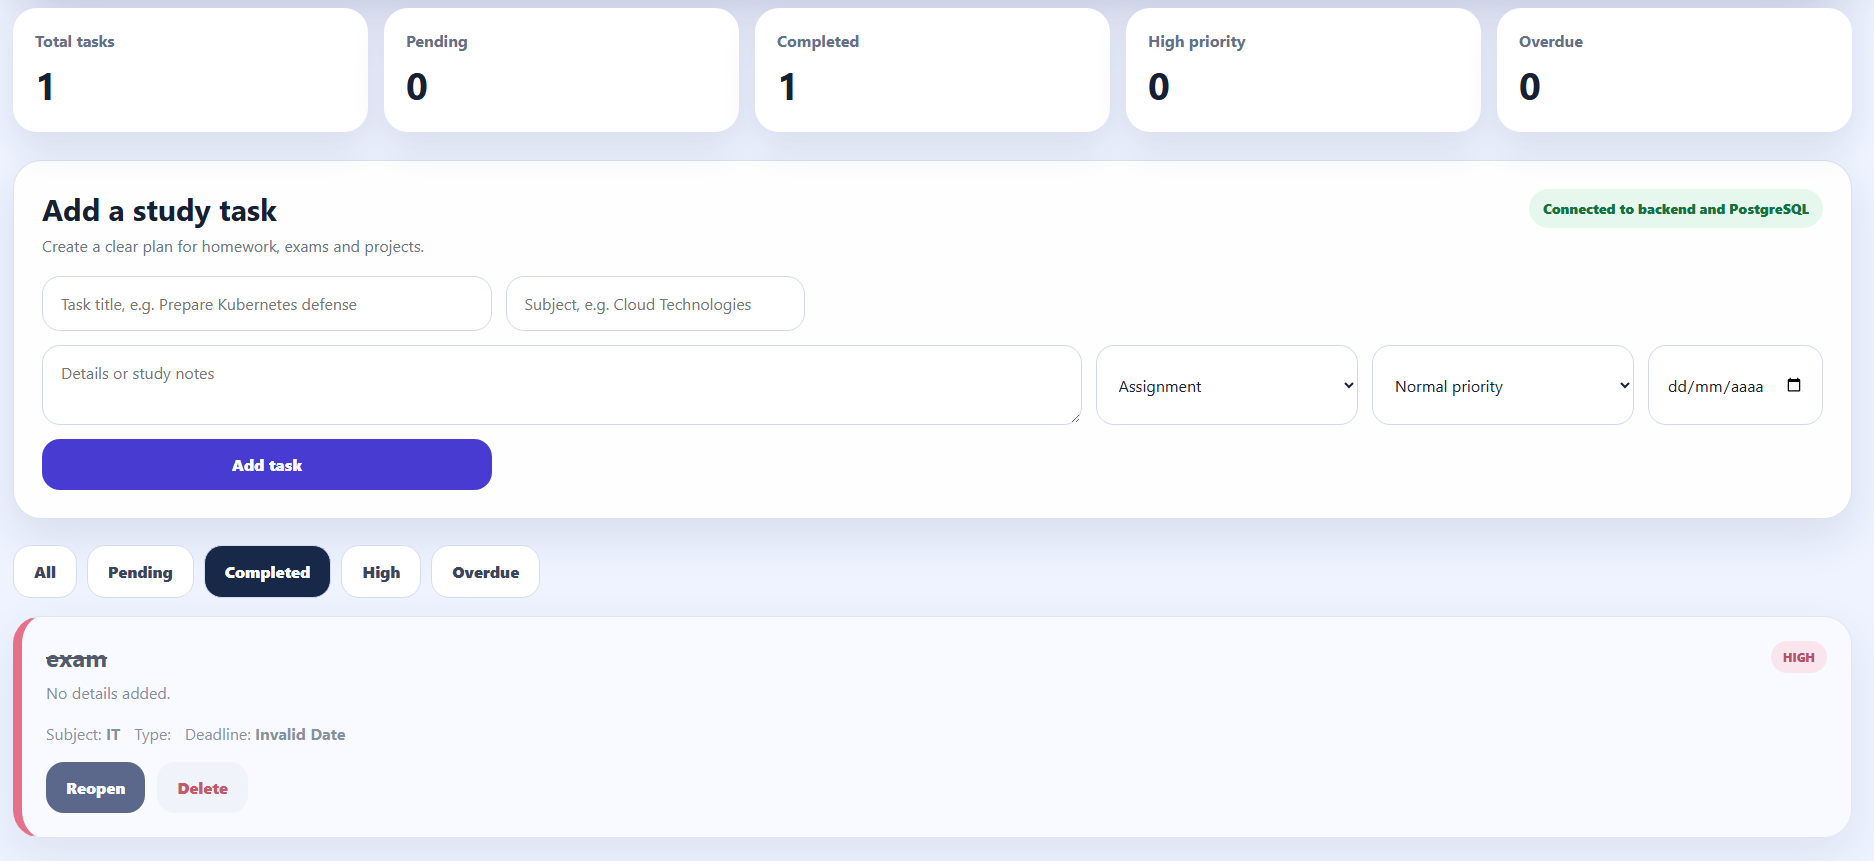
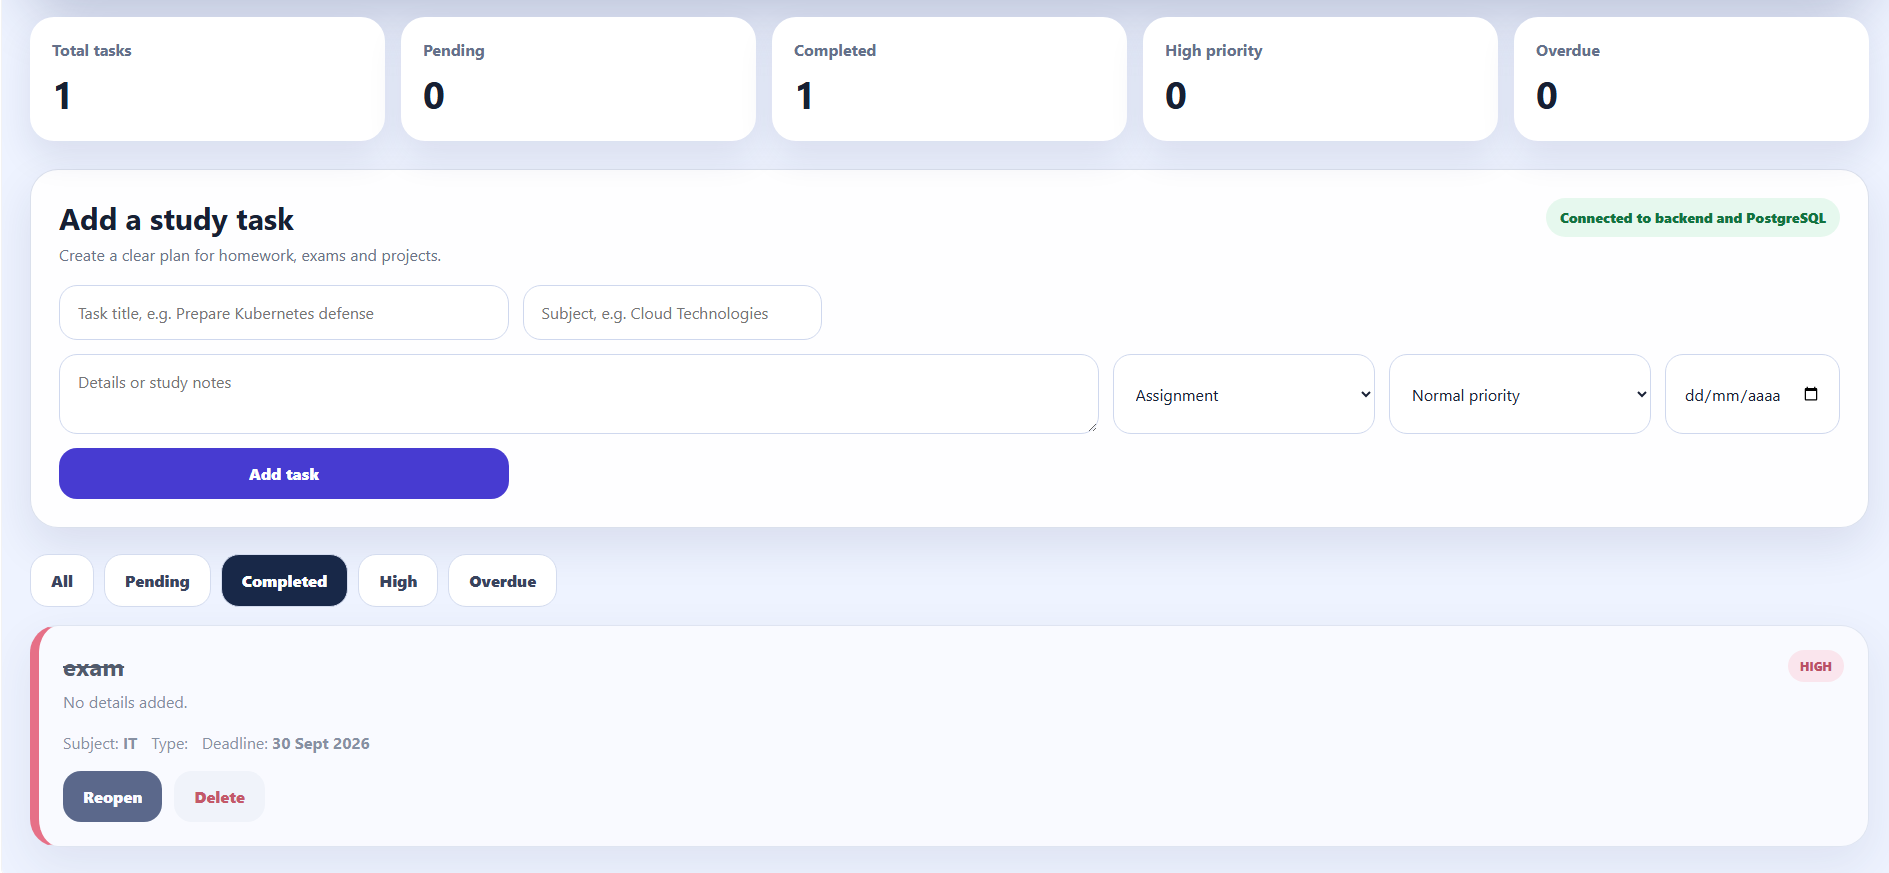
Fix deadline formatting and update project badge

diff --git a/frontend/src/main.jsx b/frontend/src/main.jsx
@@ -4,16 +4,46 @@ import './styles.css';
 
 const API_URL = import.meta.env.VITE_API_URL || 'http://localhost:10000';
 
+function parseDeadline(date) {
+  if (!date) return null;
+
+  // PostgreSQL may return either YYYY-MM-DD
+  // or a complete ISO timestamp.
+  const datePart = String(date).split('T')[0];
+  const parsedDate = new Date(`${datePart}T00:00:00`);
+
+  if (Number.isNaN(parsedDate.getTime())) {
+    return null;
+  }
+
+  return parsedDate;
+}
+
 function formatDate(date) {
-  if (!date) return 'No deadline';
-  return new Date(date + 'T00:00:00').toLocaleDateString(undefined, { month: 'short', day: 'numeric', year: 'numeric' });
+  const parsedDate = parseDeadline(date);
+
+  if (!parsedDate) {
+    return 'No deadline';
+  }
+
+  return parsedDate.toLocaleDateString('en-GB', {
+    day: 'numeric',
+    month: 'short',
+    year: 'numeric',
+  });
 }
 
 function isOverdue(task) {
-  if (!task.deadline || task.completed) return false;
+  if (task.completed) return false;
+
+  const deadline = parseDeadline(task.deadline);
+
+  if (!deadline) return false;
+
   const today = new Date();
   today.setHours(0, 0, 0, 0);
-  return new Date(task.deadline + 'T00:00:00') < today;
+
+  return deadline < today;
 }
 
 function App() {
@@ -86,7 +116,7 @@ function App() {
     <main className="page">
       <section className="hero">
         <div>
-          <span className="badge">Final cloud exam project</span>
+          <span className="badge">Full-Stack Cloud Application</span>
           <h1>Student Study Planner</h1>
           <p>
             Manage assignments, exams, projects and study deadlines. Data is stored in PostgreSQL,
